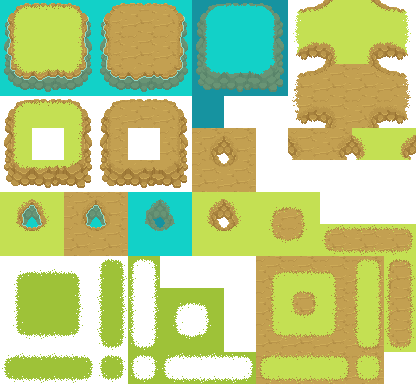
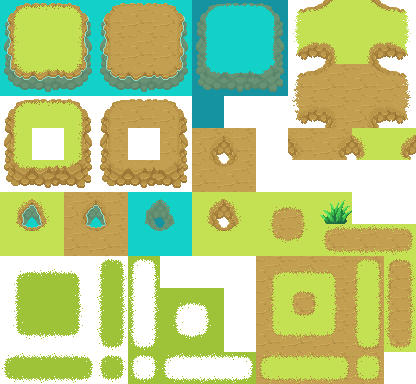
added enemy spawn and tiles

Changed region(s): [[0.75, 0.5, 0.8438, 0.5938]]

diff --git a/src/main/java/ft/swingy/GameGUI/Board.java b/src/main/java/ft/swingy/GameGUI/Board.java
@@ -7,6 +7,8 @@ import java.awt.event.ComponentEvent;
 import java.awt.event.KeyAdapter;
 import java.awt.image.BufferedImage;
 import java.io.File;
+
+import ft.swingy.Game.ID;
 import ft.swingy.Game.GameMap;
 import javax.imageio.ImageIO;
 import javax.swing.*;
@@ -31,7 +33,6 @@ public class Board extends JPanel{
         catch (Exception e) {
             System.out.println("ERROR\n");
         }
-
         addComponentListener(new ComponentAdapter() {
             @Override
             public void componentResized(ComponentEvent e) {
@@ -90,7 +91,7 @@ public class Board extends JPanel{
         BufferedImage mapTile = getTile(Tiles.GRASS.getPos());
         BufferedImage oobTile = getTile(Tiles.WATER.getPos());
         BufferedImage playerTile = getTile(Tiles.TEMP.getPos());
-
+        BufferedImage enemyTile = getTile(Tiles.Enemy.getPos());
         mapStartX = (this.getSize().width - mapTileSize) / 2;
         mapStartY = (this.getSize().height - mapTileSize) / 2;
         if (!init){
@@ -107,8 +108,13 @@ public class Board extends JPanel{
                 if (i == playerX && j == playerY){
                     g.drawImage(playerTile, i, j, null);
                 }
-                else if (j >= mapStartY && i >= mapStartX && j < mapTileSize + mapStartY && i < mapTileSize + mapStartX)
-                    g.drawImage(mapTile, i, j, null);
+                else if (j >= mapStartY && i >= mapStartX && j < mapTileSize + mapStartY && i < mapTileSize + mapStartX){
+                    if (map.getAt((i - mapStartX) /32, (j - mapStartY)/32) == ID.Enemy.getId()){
+                        g.drawImage(enemyTile, i, j, null);
+                    }
+                    else
+                        g.drawImage(mapTile, i, j, null);
+                }
                 else
                     g.drawImage(oobTile, i, j, null);
             }
@@ -127,10 +133,8 @@ public class Board extends JPanel{
     private void updatePlayerPosition(){
         playerX = mapStartX + map.getPlayerPosXAsTile();
         playerY = mapStartY + map.getPlayerPosYAsTile();
-        System.out.println("before: " + playerX + " " + playerY);
         playerX = ((playerX + 31) / 32) * 32;
         playerY = ((playerY + 31) / 32) * 32;
-        System.out.println("after: " + playerX + " " + playerY);
         repaint();
     }
 

diff --git a/src/main/java/ft/swingy/Game/GameMap.java b/src/main/java/ft/swingy/Game/GameMap.java
@@ -1,6 +1,7 @@
 package ft.swingy.Game;
 
 import java.awt.event.KeyEvent;
+import java.util.Random;
 
 public class GameMap {
     int size;
@@ -10,10 +11,24 @@ public class GameMap {
 
     public GameMap(int size) {
         this.size = size;
+        Random random = new Random();
+        random.setSeed(System.currentTimeMillis());
         map = new int[size][size];
         playerX = size / 2;
         playerY = size / 2;
+        for (int i = 0; i < size; i++) {
+            for (int j = 0; j < size; j++) {
+                if (random.nextInt(100) < 50)
+                    map[i][j] = ID.Enemy.getId();
+                else
+                    map[i][j] = ID.Empty.getId();
+            }
+        }
         map[playerX][playerY] = ID.Player.getId();
+    }
+
+    public int getAt(int x, int y) {
+        return map[x][y];
     }
 
     public int getSize() {

diff --git a/src/main/java/ft/swingy/GameGUI/Tiles.java b/src/main/java/ft/swingy/GameGUI/Tiles.java
@@ -3,7 +3,8 @@ package ft.swingy.GameGUI;
 public enum Tiles {
     GRASS(32, 32, 32, 32),
     TEMP(0, 0, 32, 32),
-    WATER(224, 32, 32, 32);
+    WATER(224, 32, 32, 32),
+    Enemy(320, 192, 32, 32);
 
     private int row;
     private int col;
